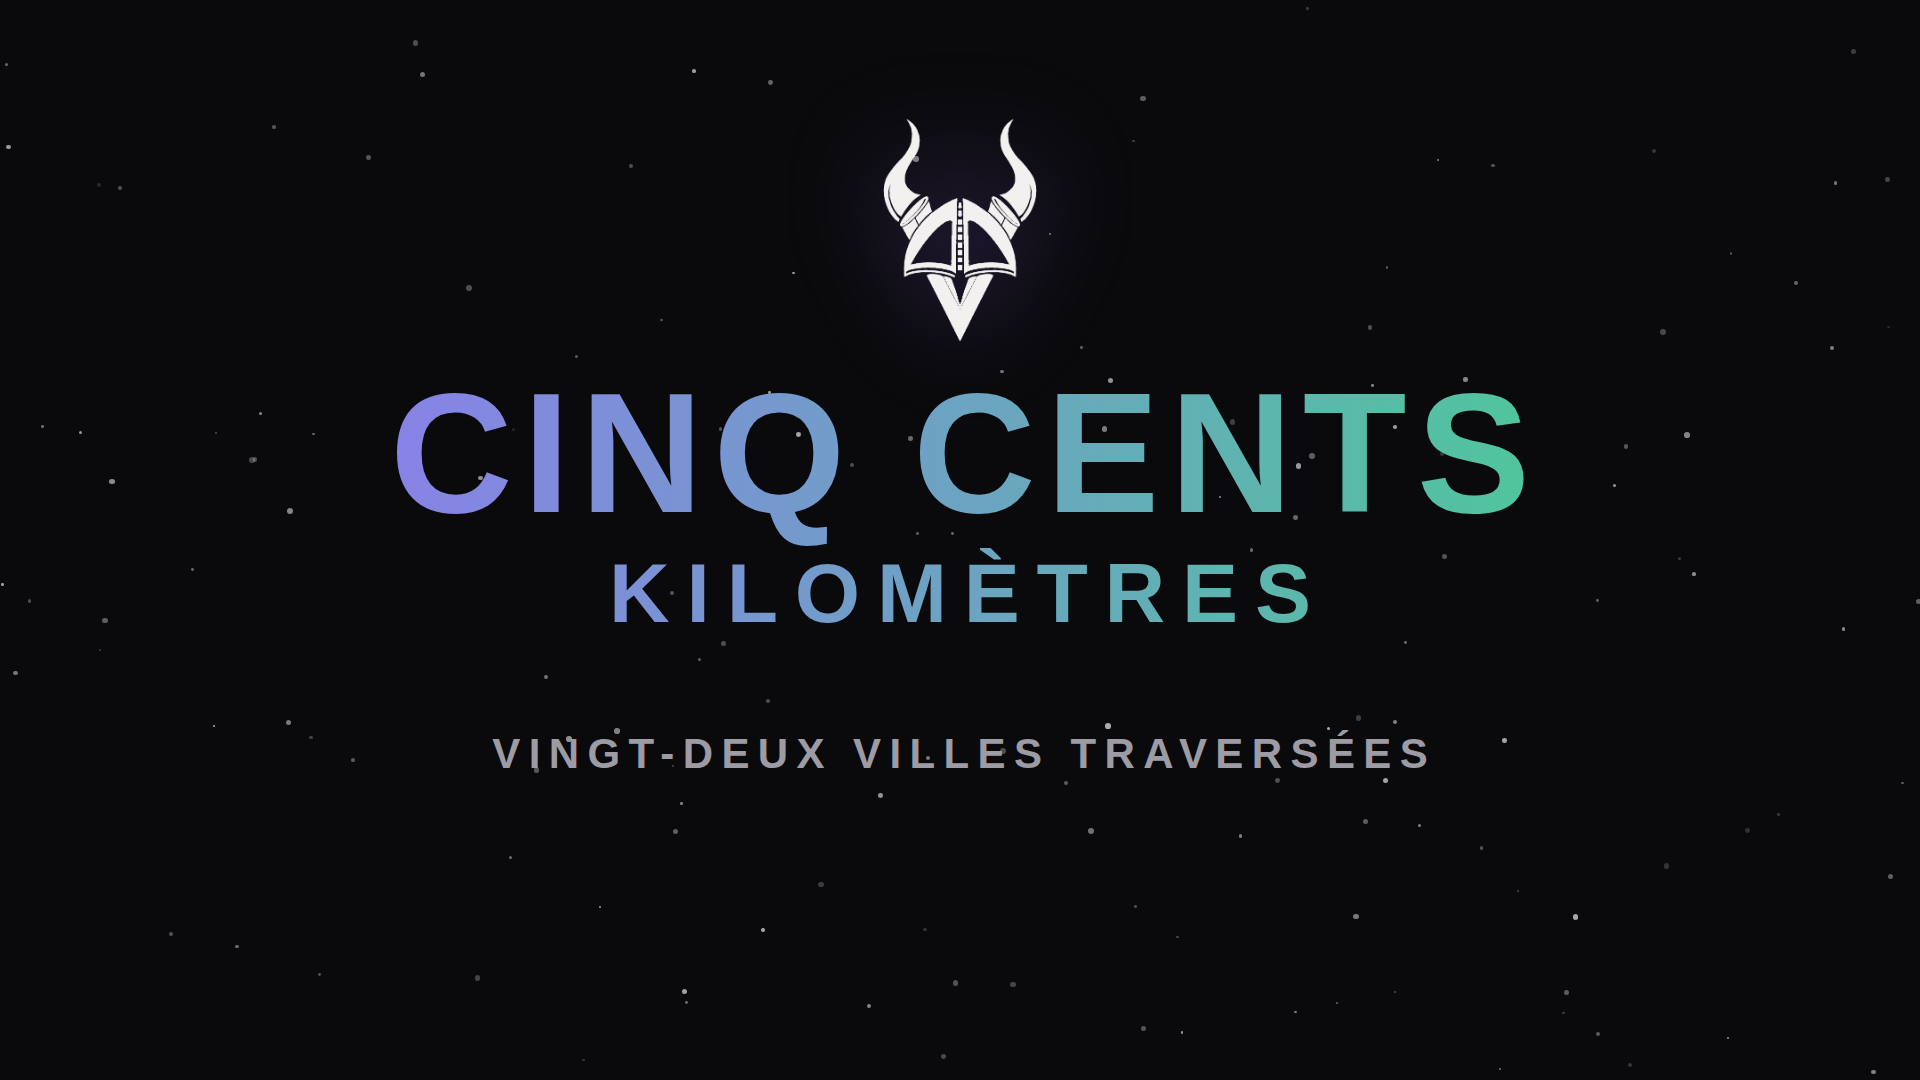
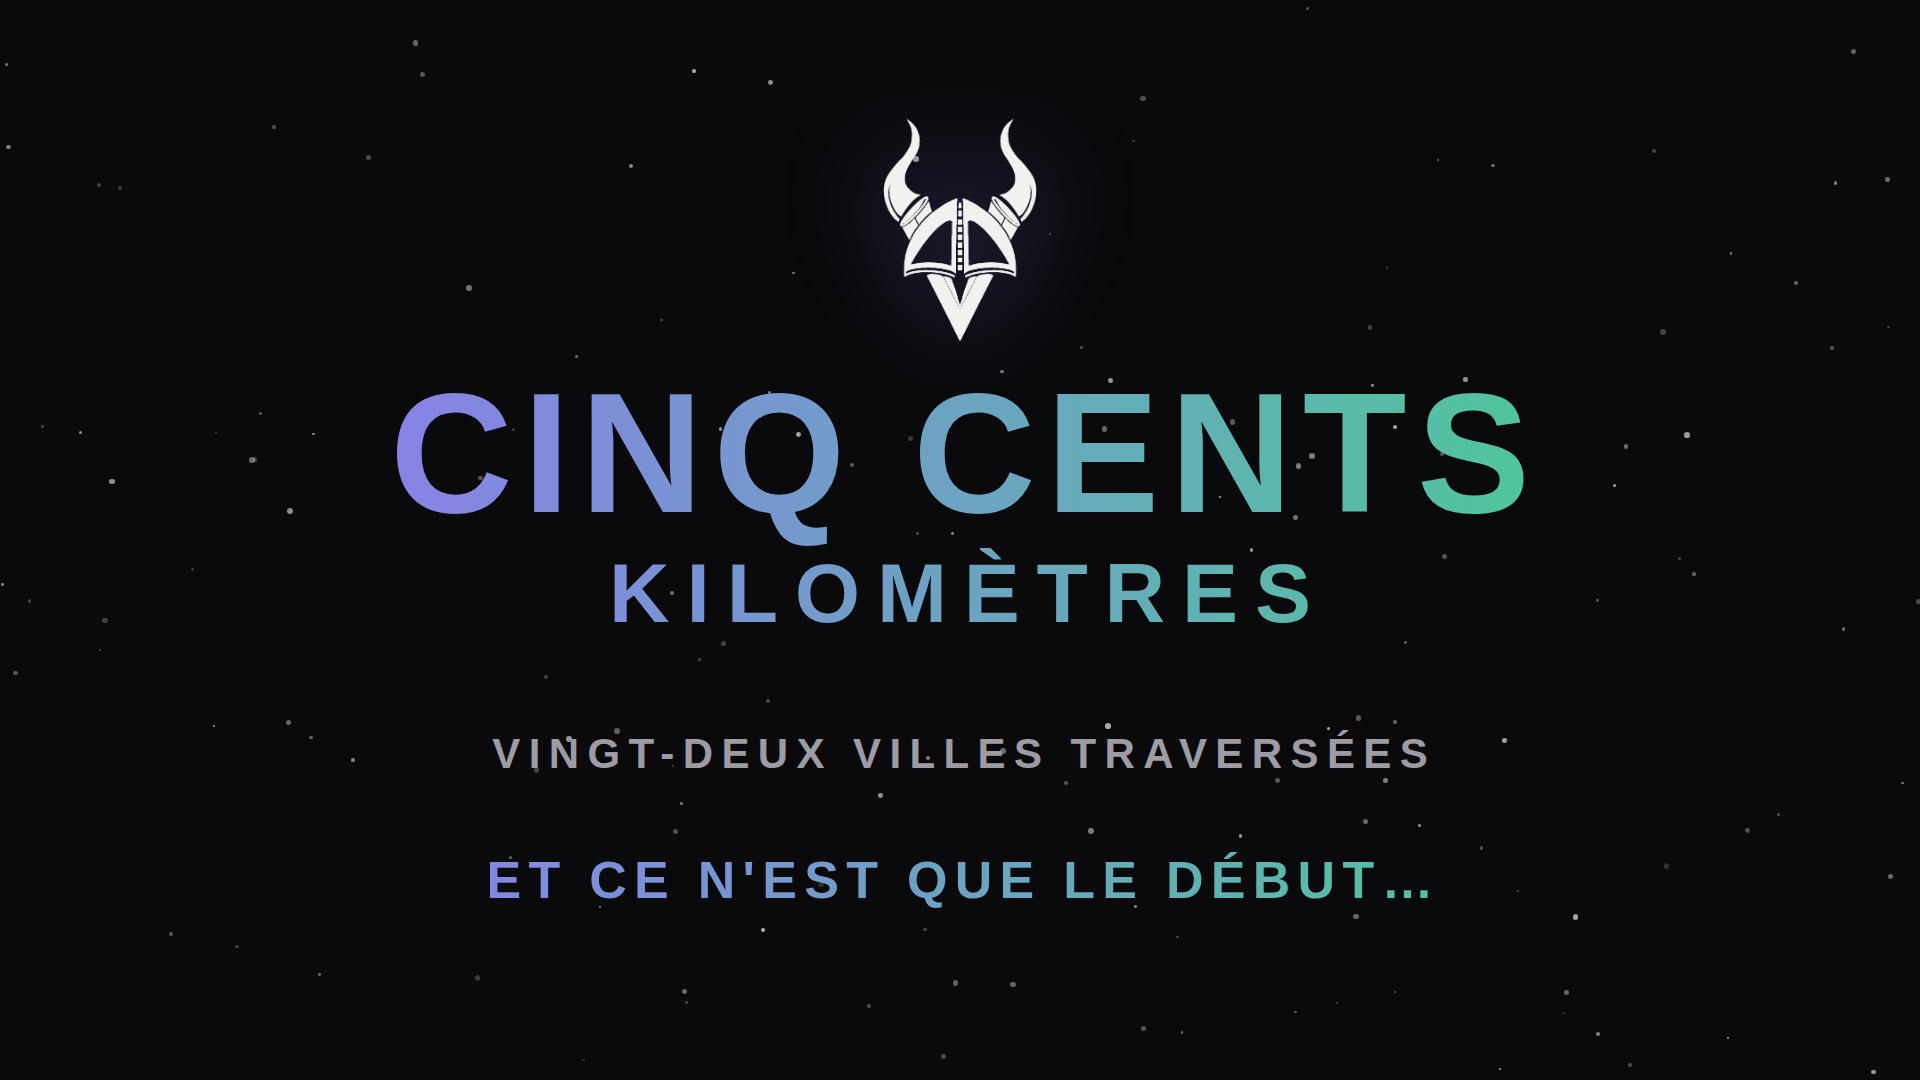
Page bilan : ajoute « Et ce n'est que le debut… »
Claude-Session: https://claude.ai/code/session_012rUB3CgGQKWMyg8f7W5ij6

Changed region(s): [[0.25, 0.7944, 0.7188, 0.8556]]

diff --git a/bande-annonce/bilan.html b/bande-annonce/bilan.html
@@ -17,6 +17,7 @@
             -webkit-text-fill-color:transparent; }
   #nb{ top:810px; font-size:128px; letter-spacing:.06em; padding-left:.06em; line-height:1.1; }
   #unite{ top:965px; font-size:76px; letter-spacing:.2em; padding-left:.2em; }
+  #suite{ top:1290px; font-size:46px; letter-spacing:.14em; padding-left:.14em; }
   #villes{ top:1130px; font-size:38px; letter-spacing:.2em; padding-left:.2em; color:var(--dim); }
 
   .paysage, .paysage body{ width:1920px; height:1080px; }
@@ -24,12 +25,14 @@
   .paysage #nb{ top:360px; font-size:170px; }
   .paysage #unite{ top:545px; font-size:84px; }
   .paysage #villes{ top:730px; font-size:42px; }
+  .paysage #suite{ top:850px; font-size:52px; }
 </style>
 <div id="stars"></div>
 <img id="logo" src="../assets/logo-mark.png" alt="">
 <div class="bloc degrade" id="nb"></div>
 <div class="bloc degrade" id="unite">kilomètres</div>
 <div class="bloc" id="villes"></div>
+<div class="bloc degrade" id="suite">Et ce n'est que le début…</div>
 <script>
 // Les memes chiffres que recap.html : KM_ANNONCE (le chiffre d'Erwan) et le
 // nombre de lieux de LIEUX. A mettre a jour ensemble.
@@ -68,7 +71,7 @@ function enLettres(n){
 }
 document.getElementById('nb').textContent = enLettres(KM);
 document.getElementById('villes').textContent = enLettres(VILLES) + ' villes traversées';
-window.__duree = 6;
+window.__duree = 6;   // la derniere ligne parait a 3 s : les images se prennent a 4,5 s
 window.__render = function(t){
   etoiles.forEach(e=>{
     const s=e.base*(0.45+0.55*Math.abs(Math.sin(e.phase+t*e.vitesse)));
@@ -79,6 +82,7 @@ window.__render = function(t){
   document.getElementById('nb').style.opacity = o(0.8,1.6);
   document.getElementById('unite').style.opacity = o(1.4,2.2);
   document.getElementById('villes').style.opacity = o(2.0,2.8);
+  document.getElementById('suite').style.opacity = o(3.0,3.8);
 };
 window.__render(0);
 </script>
